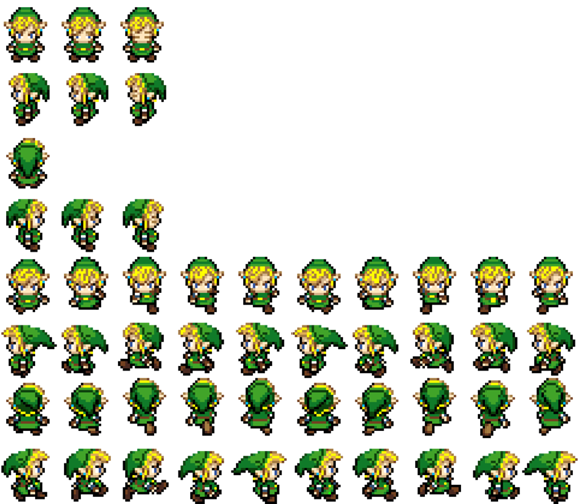
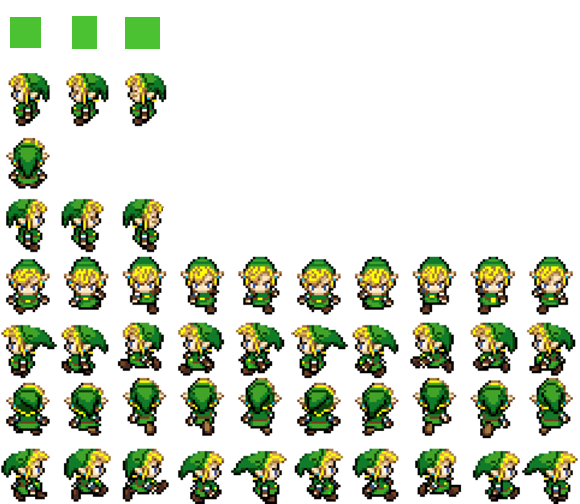
merge

Changed region(s): [[0.0, 0.0, 0.2793, 0.1488]]

diff --git a/main.py b/main.py
@@ -1,12 +1,12 @@
 import os
 import sys
-
+import random
 import pygame
 
 FPS = 50
 N = M = 800
 TILE_SIZE = 80
-
+masOfGrass = list()
 
 # Изображение не получится загрузить
 # без предварительной инициализации pygame
@@ -35,14 +35,14 @@ def generate_level(level):
     for y in range(len(level)):
         for x in range(len(level[y])):
             if level[y][x] == '.':
-                Tile('empty', x, y)
+                Tile(random.choice(masOfGrass), x, y)
             elif level[y][x] == 'e':
-                Tile('empty', x, y)
+                Tile(random.choice(masOfGrass), x, y)
                 Enemy(load_image('enemy.png', -1), 3, 2, x, y)
             elif level[y][x] == '@':
-                Tile('empty', x, y)
+                Tile(random.choice(masOfGrass), x, y)
                 playerxy = (x, y)
-    new_player = Player(load_image("test.png", -1), 10, 8, *playerxy)
+    new_player = Player(load_image("Main5.png", -1), 10, 8, *playerxy)
     # вернем игрока, а также размер поля в клетках
     return new_player, x, y
 
@@ -231,10 +231,13 @@ if __name__ == '__main__':
     pygame.init()
     size = width, height = N, M
     screen = pygame.display.set_mode(size)
-
+    masOfGrass = ["empty1", "empty2", "empty3"]
     tile_images = {
         'wall': load_image('box.png'),
-        'empty': load_image('grass.png')
+        'empty': load_image('grass.png'),
+        'empty1': load_image('grass1.png'),
+        'empty2': load_image('grass2.png'),
+        'empty3': load_image('grass3.png'),
     }
 
     # основной персонаж
